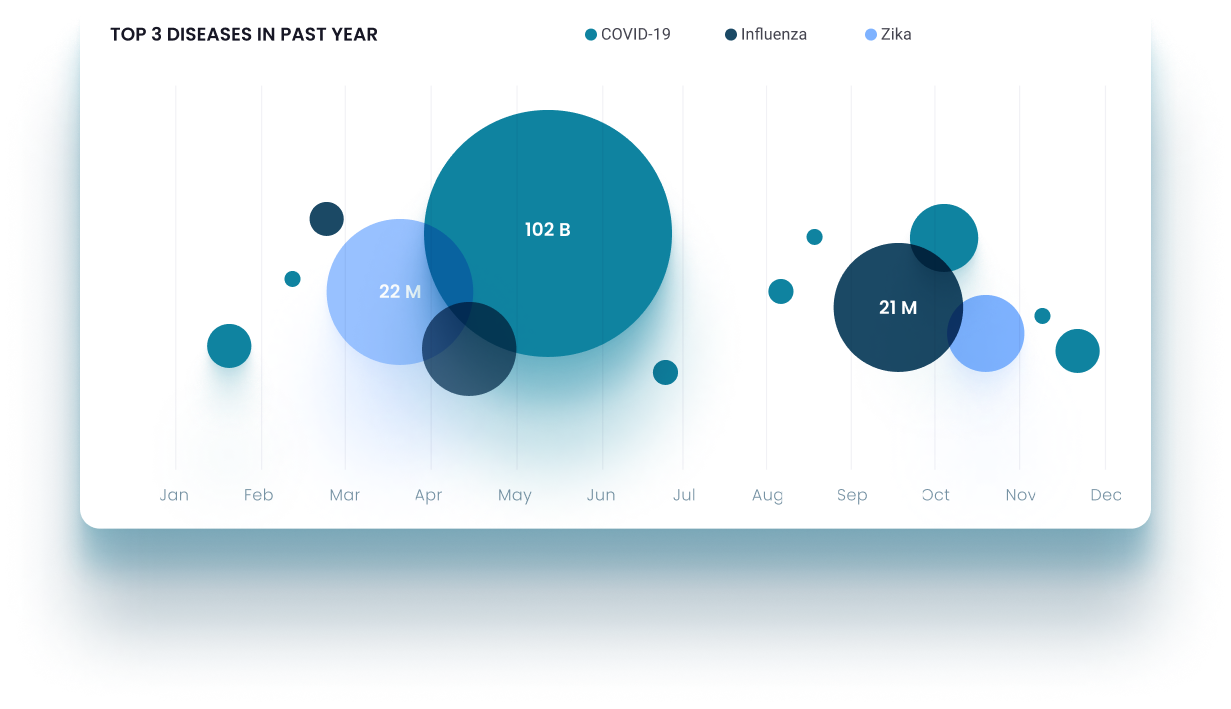
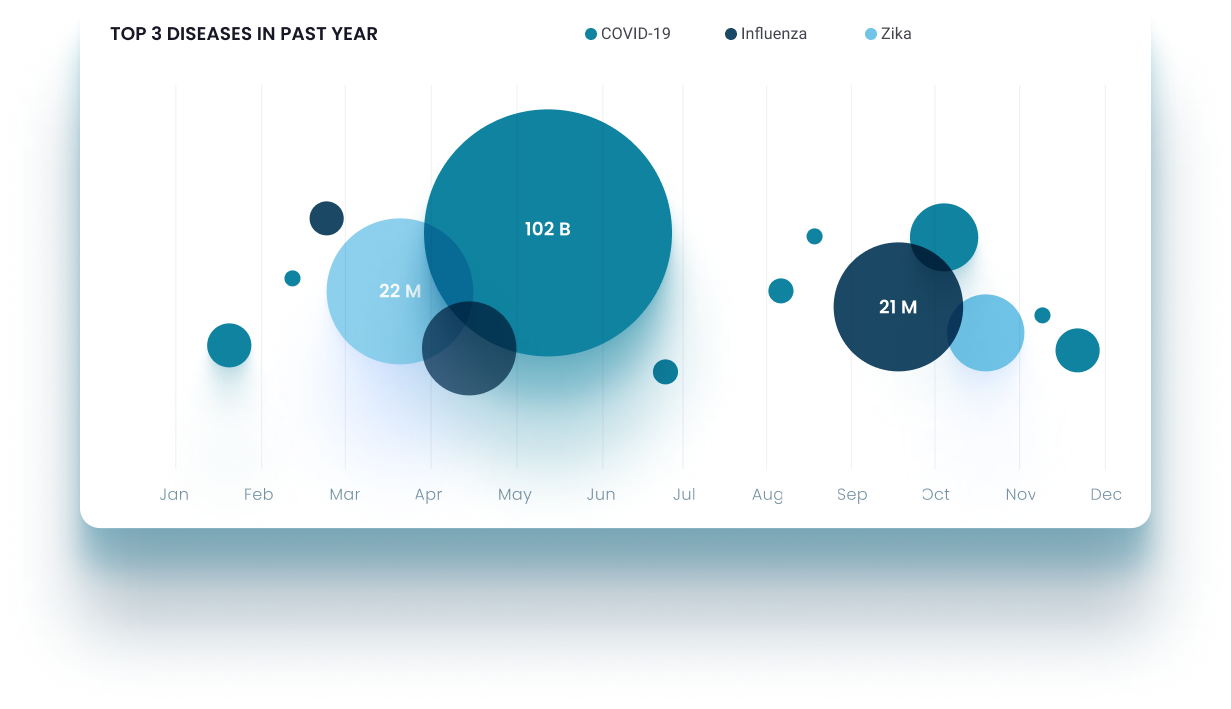
homepage color

diff --git a/PHASE_2/Application_SourceCode/epicdemic/src/components/Home/UpdateBar.js b/PHASE_2/Application_SourceCode/epicdemic/src/components/Home/UpdateBar.js
@@ -9,7 +9,7 @@ function RestrictBox(){
 		<Row className="justify-content-start bg-mblue mt-2 mb-3 pt-2 pb-2" style={{"border-radius": "10px"}}>
 			<Col md={2} className="align-self-center">
 				<Row className="justify-content-end">
-					<img src={info} width="35px" height="35px"></img>
+					<img src={info} width="50px" height="50px"></img>
 				</Row>
 			</Col>
 			<Col>

diff --git a/PHASE_2/Application_SourceCode/epicdemic/src/components/Home/NewsBar.js b/PHASE_2/Application_SourceCode/epicdemic/src/components/Home/NewsBar.js
@@ -31,7 +31,7 @@ const responsive = {
     }
   };
 
-const colours = [ '#7EB2FF', '#ADD8E6', '#0F83A0' ]
+const colours = [ '#0F83A0', '#E2F2FC', '#70C4E8' ]
 
 class NewsBar extends React.Component {
   render() {

diff --git a/PHASE_2/Application_SourceCode/epicdemic/src/components/Travel/NewsBar.js b/PHASE_2/Application_SourceCode/epicdemic/src/components/Travel/NewsBar.js
@@ -29,7 +29,7 @@ const responsive = {
     }
   };
 
-const colours = [ '#7EB2FF', '#ADD8E6', '#0F83A0' ]
+const colours = [ '#0F83A0', '#E2F2FC', '#70C4E8' ]
 
 class NewsBar extends React.Component {
   render() {

diff --git a/PHASE_2/Application_SourceCode/epicdemic/src/styles/Home.css b/PHASE_2/Application_SourceCode/epicdemic/src/styles/Home.css
@@ -75,7 +75,7 @@
     background-color: #726FE7;
 }
 .bg-mblue{
-    background-color: #7EB2FF;
+    background-color: #70C4E8;
 }
 .bg-white {
     background-color: white;
